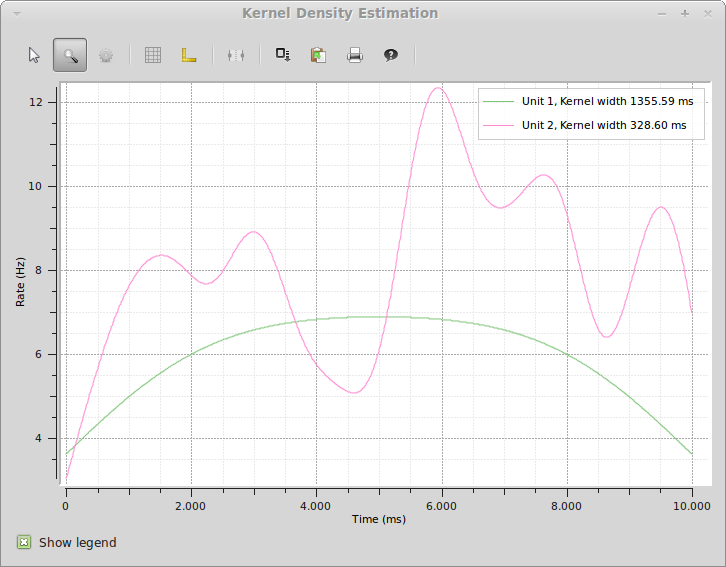
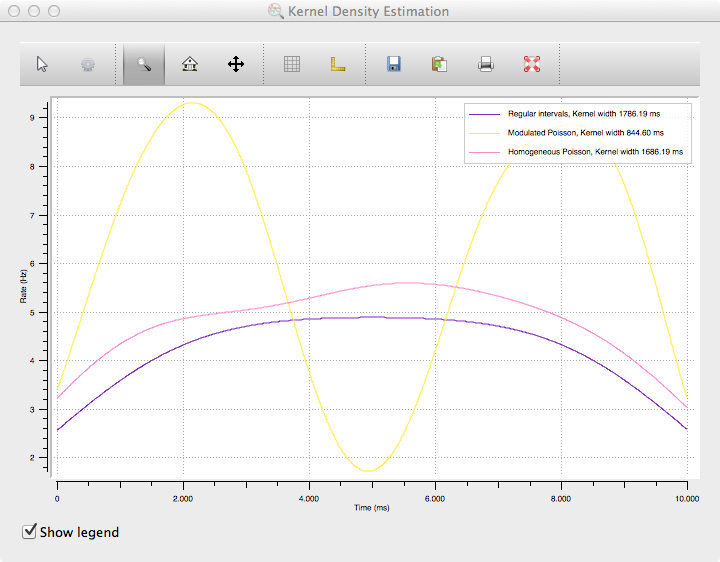
Update of tutorial.

diff --git a/spykeutils/tools.py b/spykeutils/tools.py
@@ -25,7 +25,7 @@ def apply_to_dict(fn, dictionary, *args):
 
 
 def bin_spike_trains(trains, sampling_rate, t_start=None, t_stop=None):
-    """ Creates a binned representation of a spike train.
+    """ Creates binned representations of a spike trains.
 
     :param dict trains: A dictionary of sequences of
         :class:`neo.core.SpikeTrain` objects.

diff --git a/doc/source/examples.rst b/doc/source/examples.rst
@@ -19,14 +19,15 @@ contained in a complete hierarchy. First, we import the modules we will use:
 >>> import scipy as sp
 
 We start with some container objects - two segments that represent trials and
-two units (representing neurons) that produced the spike trains:
+three units (representing neurons) that produced the spike trains:
 
 >>> segments = []
 >>> segments.append(neo.Segment('Trial 1'))
 >>> segments.append(neo.Segment('Trial 2'))
 >>> units = []
->>> units.append(neo.Unit('Unit 1'))
->>> units.append(neo.Unit('Unit 2'))
+>>> units.append(neo.Unit('Regular intervals'))
+>>> units.append(neo.Unit('Homogeneous Poisson'))
+>>> units.append(neo.Unit('Modulated Poisson'))
 
 We create some analog signals from a sine wave with additive Gaussian noise,
 four signals in each segment:
@@ -38,21 +39,28 @@ four signals in each segment:
 ...     signal.segment = segments[i%2]
 ...     segments[i%2].analogsignals.append(signal)
 
-And some spike trains from regular intervals or random time points:
+And some spike trains from regular intervals, homogeneous Poisson process and
+a modulated Poisson process:
 
+>>> import spykeutils.spike_train_generation as stg
 >>> trains = []
 >>> trains.append(neo.SpikeTrain(sp.linspace(0, 10, 40)*pq.s, 10*pq.s))
 >>> trains.append(neo.SpikeTrain(sp.linspace(0, 10, 60)*pq.s, 10*pq.s))
->>> trains.append(neo.SpikeTrain(sp.rand(50)*10*pq.s, 10*pq.s))
->>> trains.append(neo.SpikeTrain(sp.rand(70)*10*pq.s, 10*pq.s))
+>>> trains.append(stg.gen_homogeneous_poisson(5*pq.Hz, t_stop=10*pq.s))
+>>> trains.append(stg.gen_homogeneous_poisson(7*pq.Hz, t_stop=10*pq.s))
+>>> modulation = lambda t: sp.sin(3 * sp.pi * t / 10.0 / pq.s) / 2.0 + 0.5
+>>> trains.append(stg.gen_inhomogeneous_poisson(modulation, 10*pq.Hz, t_stop=10*pq.s))
+>>> trains.append(stg.gen_inhomogeneous_poisson(modulation, 10*pq.Hz, t_stop=10*pq.s))
 
 Now we create the relationships between the spike trains and container
 objects. Each unit has two spike trains, one in each segment:
 
->>> segments[0].spiketrains = [trains[0], trains[2]]
->>> segments[1].spiketrains = [trains[1], trains[3]]
+>>> segments[0].spiketrains = [trains[0], trains[2], trains[4]]
+>>> segments[1].spiketrains = [trains[1], trains[3], trains[5]]
 >>> units[0].spiketrains = trains[:2]
 >>> units[1].spiketrains = trains[2:4]
+>>> units[2].spiketrains = trains[4:6]
+
 >>> for s in segments:
 ...     for st in s.spiketrains:
 ...         st.segment = s
@@ -68,13 +76,14 @@ PSTH
 To create a peri stimulus time histogram from our spike trains, we call
 :func:`spykeutils.rate_estimation.psth`. This function can create multiple
 PSTHs and takes a dicionary of lists of spike trains. Since our spike trains
-were generated by two units, we will create two histograms, one for each
+were generated by three units, we will create three histograms, one for each
 unit:
 
 >>> import spykeutils.rate_estimation
 >>> st_dict = {}
 >>> st_dict[units[0]] = units[0].spiketrains
 >>> st_dict[units[1]] = units[1].spiketrains
+>>> st_dict[units[2]] = units[2].spiketrains
 >>> spykeutils.rate_estimation.psth(st_dict, 400*pq.ms)[0] # doctest: +ELLIPSIS
 {<neo.core.unit.Unit object at 0x...>: array([ 6.25,  5.  ,  5.  ,  5.  ,  3.75, ...
 
@@ -110,7 +119,7 @@ As with the PSTH, there is also a plot function for creating a spike
 density estimation. Here, we use both units because the function produces
 a line plot where both units can be shown at the same time:
 
->>> spykeutils.plot.sde(st_dict, maximum_kernel=1500*pq.ms, optimize_steps=100) # doctest: +SKIP
+>>> spykeutils.plot.sde(st_dict, maximum_kernel=3000*pq.ms, optimize_steps=100) # doctest: +SKIP
 
 The resulting plot will look like the following:
 
